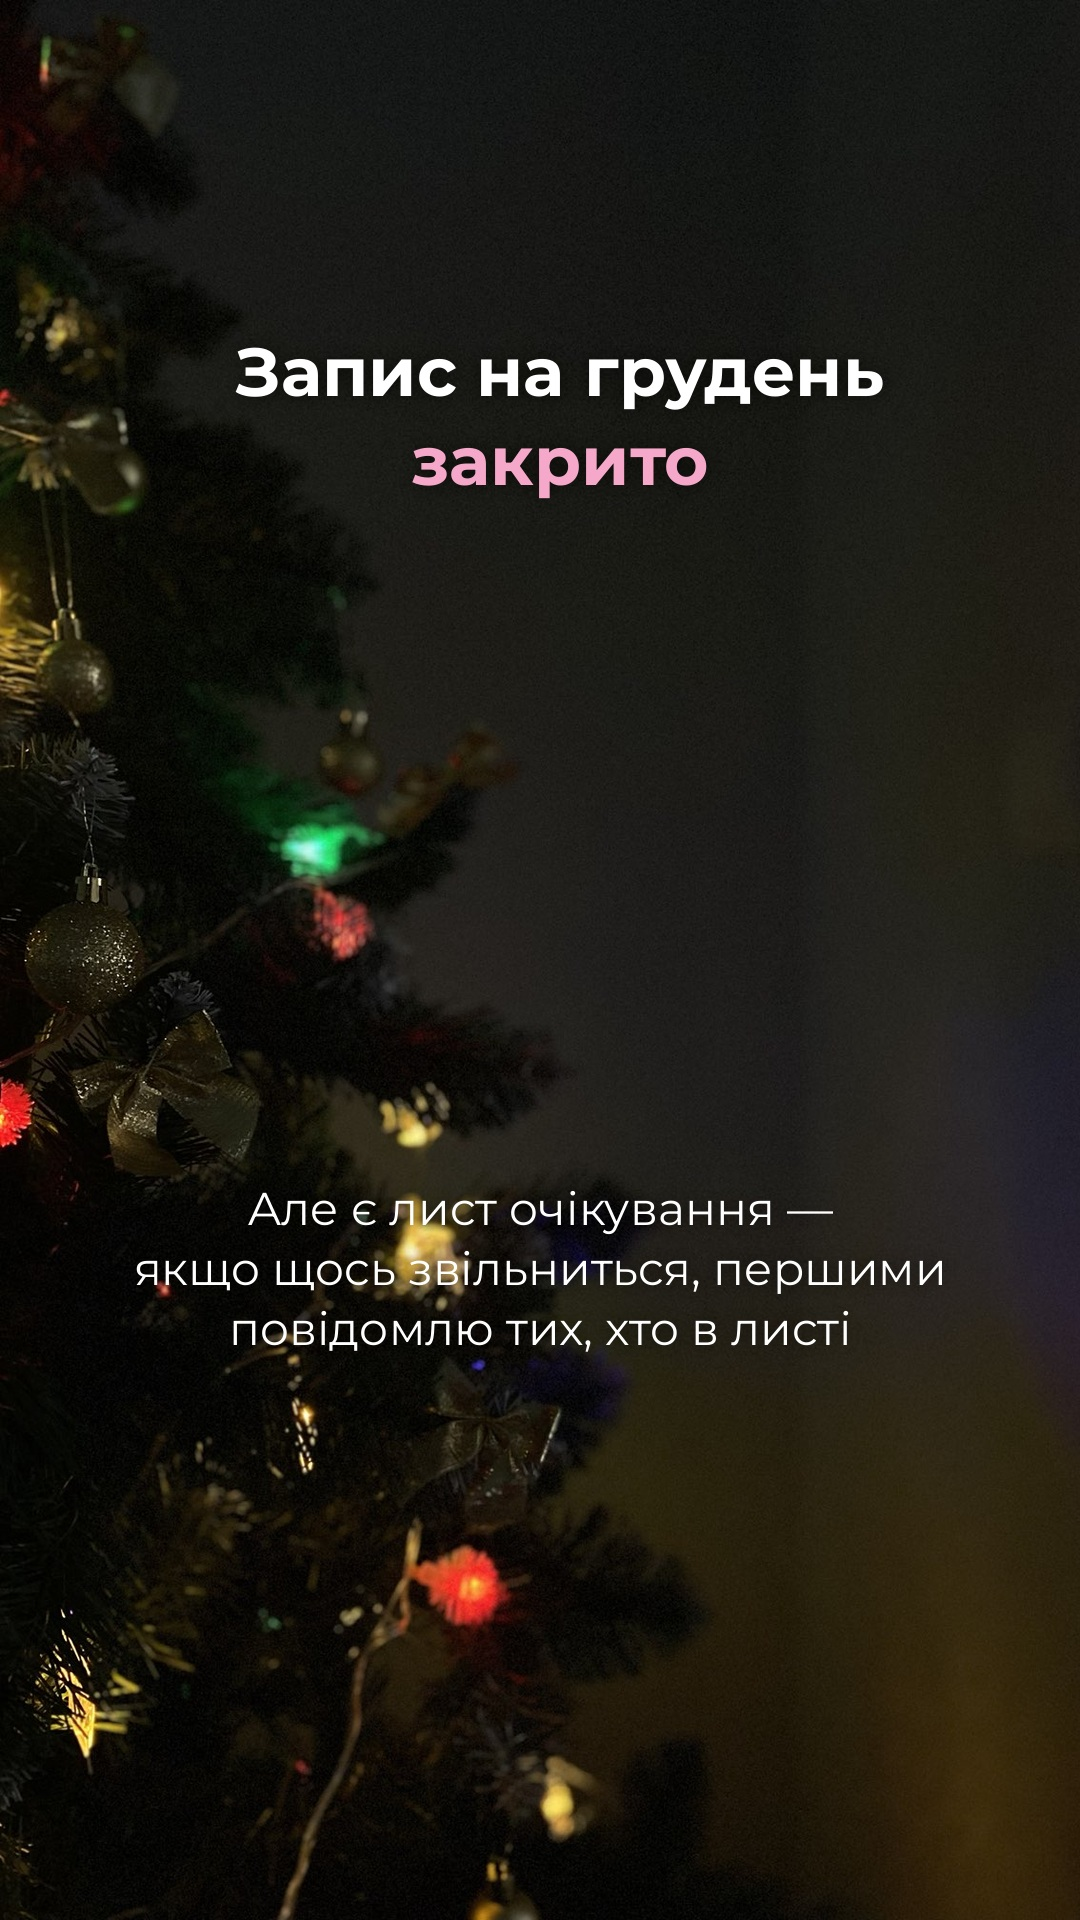
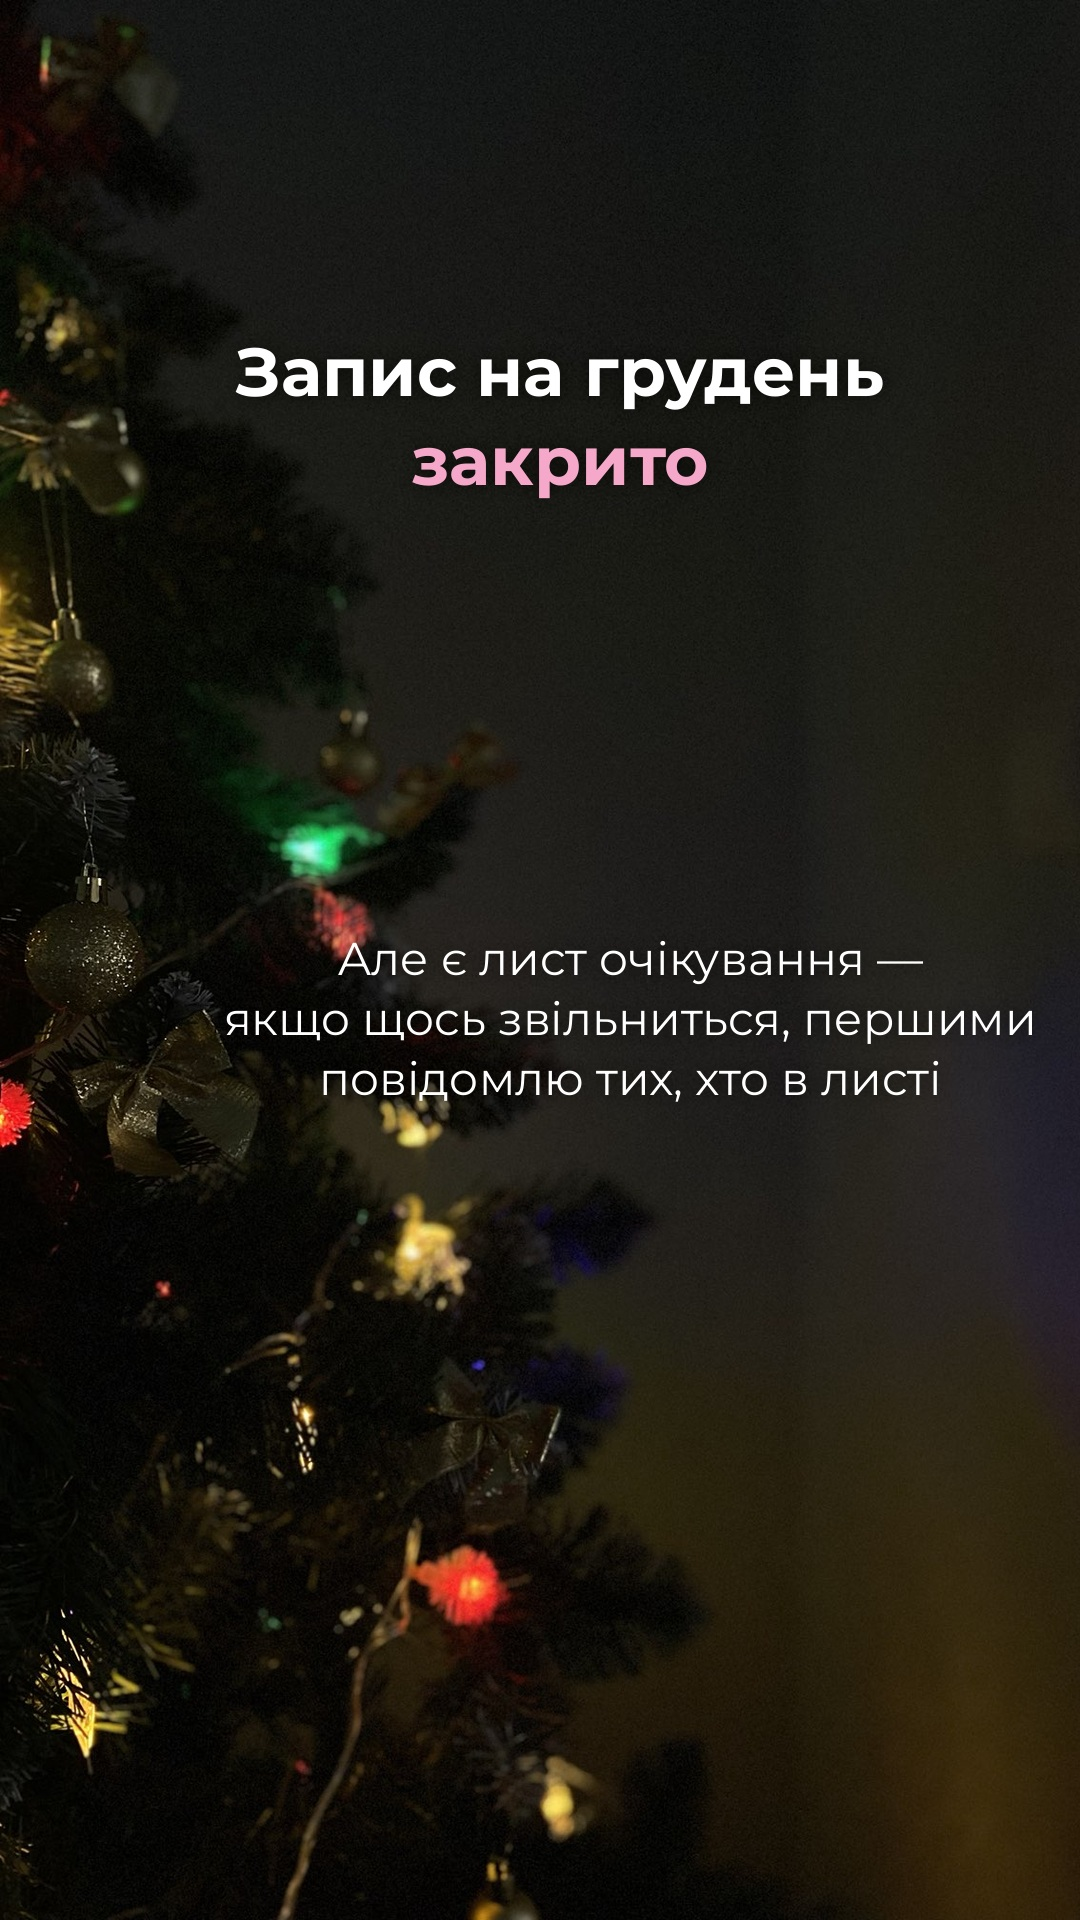
Сторі грудень: текст правіше й вище, між вогниками
Claude-Session: https://claude.ai/code/session_0191xVL2hi5vHUvM1ix6pauC

Changed region(s): [[0.1222, 0.625, 0.8556, 0.7188], [0.275, 0.5, 0.8861, 0.5938], [0.2139, 0.5312, 0.2444, 0.5625]]

diff --git a/stories/zapys_gruden/build.py b/stories/zapys_gruden/build.py
@@ -9,7 +9,7 @@ OUT=f'{R}/stories/zapys_gruden'
 BOLD=F(68,700); REG=F(46,400)
 im,y=tx(im,330,'Запис на грудень','',cx=560,mw=900,align='c',shade=0)
 im,y=tx(im,y-8,'*закрито*','',cx=560,mw=900,align='c',shade=0)
-im,y=tx(im,1180,'','Але є лист очікування —',None,cx=540,mw=1000,align='c',shade=0)
-im,y=tx(im,y-8,'','якщо щось звільниться, першими',None,cx=540,mw=1000,align='c',shade=0)
-im,y=tx(im,y-8,'','повідомлю тих, хто в листі',None,cx=540,mw=1000,align='c',shade=0)
+im,y=tx(im,930,'','Але є лист очікування —',None,cx=630,mw=1000,align='c',shade=0)
+im,y=tx(im,y-8,'','якщо щось звільниться, першими',None,cx=630,mw=1000,align='c',shade=0)
+im,y=tx(im,y-8,'','повідомлю тих, хто в листі',None,cx=630,mw=1000,align='c',shade=0)
 im.save(f'{OUT}/1.jpg',quality=94); print(y)
